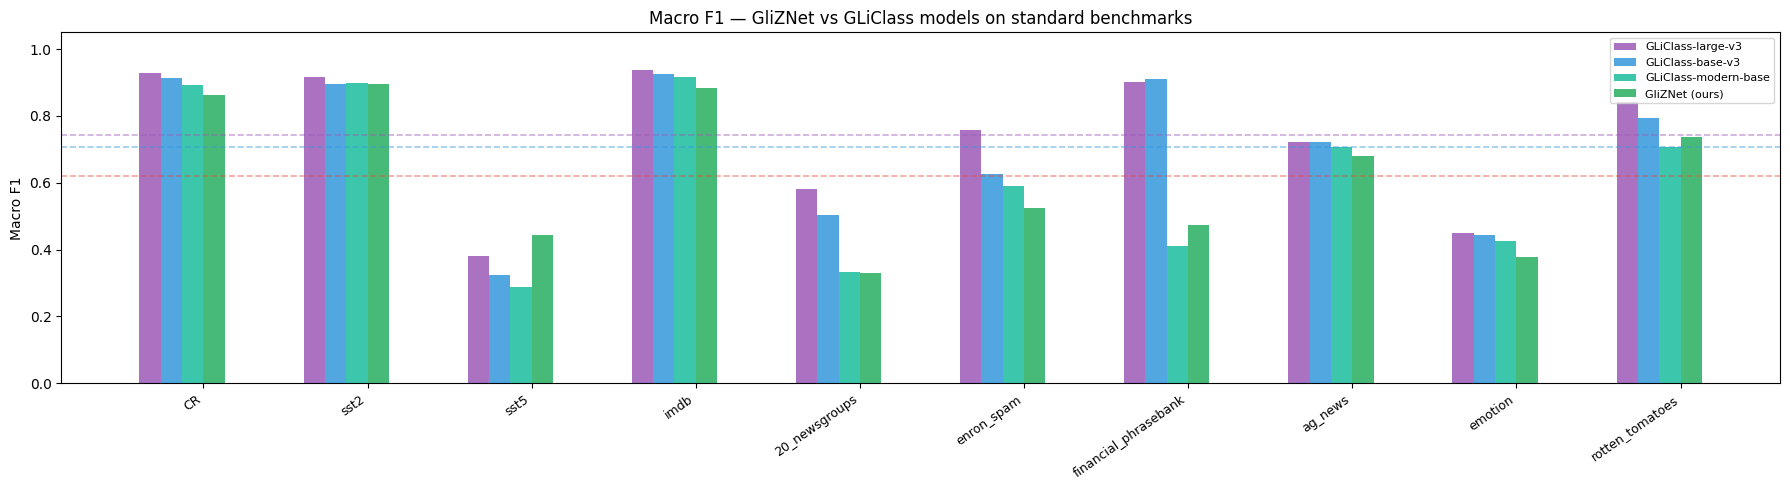
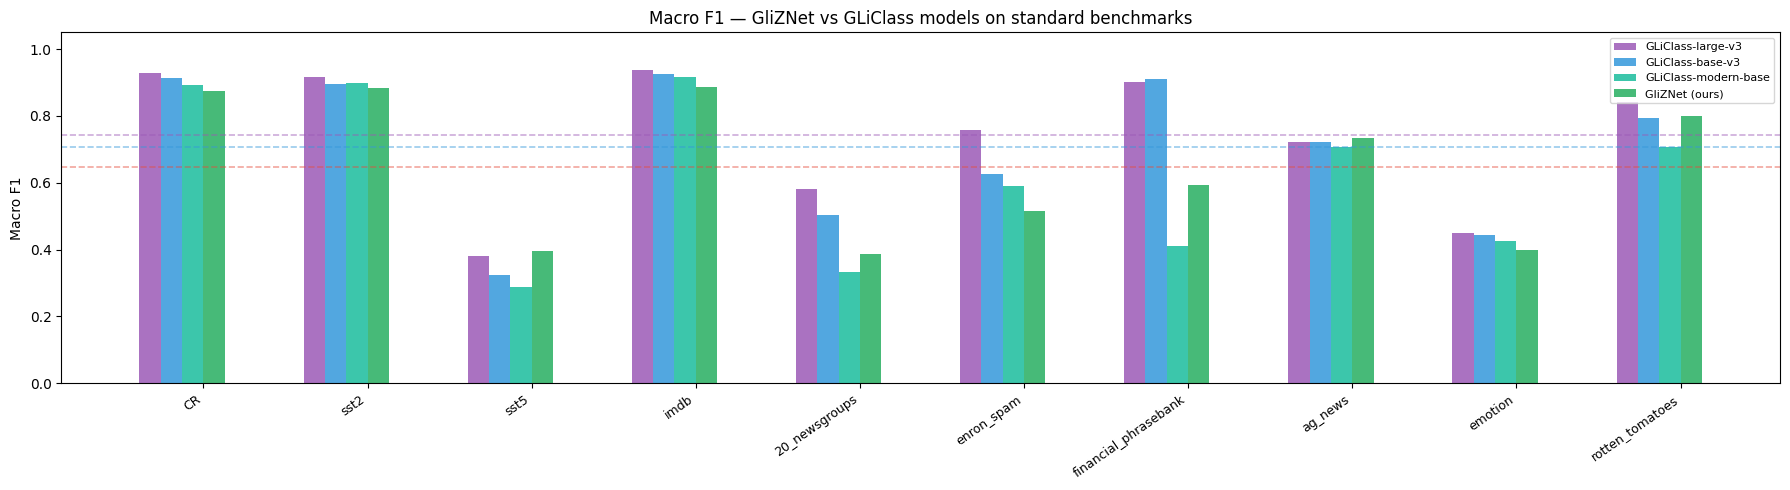
feat: Update GliZNet model card and training scripts
- Enhanced model card with detailed description of the hybrid loss function, including the use of a partial VICReg regularizer.
- Updated performance metrics in the model card to reflect improved results across various datasets.
- Added warnings filter in training script to suppress specific warnings during execution.
- Commented out options for maximum extended dataset size and additional datasets in the training shell script for clarity.
- Disabled torch compilation in the training shell script to prevent potential issues during training.

diff --git a/train_gliznet.py b/train_gliznet.py
@@ -1,11 +1,15 @@
 #!/usr/bin/env python3
 
 import os
+import warnings
 
 os.environ["WANDB_PROJECT"] = "gliznet"
 os.environ["WANDB_WATCH"] = "none"
 # os.environ["CUDA_DEVICE_ORDER"] = "PCI_BUS_ID"
 # os.environ["CUDA_VISIBLE_DEVICES"] = "1"
+
+warnings.filterwarnings("ignore", message=".*torch._prims_common.check.*")
+
 import random
 
 import datasets

diff --git a/reports/model_card.md b/reports/model_card.md
@@ -23,7 +23,7 @@ pipeline_tag: zero-shot-classification
 
 **GliZNet** (Generalized Zero-Shot Network) is a zero-shot text classification model that processes the input text and **all candidate labels jointly in a single forward pass**, achieving O(1) inference complexity regardless of the number of labels.
 
-Built on top of [microsoft/deberta-v3-base](https://huggingface.co/microsoft/deberta-v3-base), GliZNet encodes text and labels together in one sequence, extracts each label's representation from its `[LAB]` separator token, builds a label-specific text summary via cross-attention, and scores each pair with a bilinear head. A hybrid loss combining one-vs-negatives softmax (primary, with optional additive margin), auxiliary BCE, and optional label repulsion sharpens discrimination between semantically similar labels.
+Built on top of [microsoft/deberta-v3-base](https://huggingface.co/microsoft/deberta-v3-base), GliZNet encodes text and labels together in one sequence, extracts each label's representation from its `[LAB]` separator token, builds a label-specific text summary via cross-attention, and scores each pair with a bilinear head. A hybrid loss combining one-vs-negatives softmax (primary, with optional additive margin), auxiliary BCE, and a partial VICReg regularizer (variance + covariance terms only — the invariance term is dropped, leaving a pure label-repulsion objective) sharpens discrimination between semantically similar labels.
 
 > **Paper**: *GliZNet: A Novel Architecture for Zero-Shot Text Classification*  
 > Alex Kameni (Ivalua / Massy, France)
@@ -111,19 +111,19 @@ GLiClass variants are the closest published competitors; all encode text and lab
 
 | Dataset | GliZNet (ours) | GLiClass-large-v3 | GLiClass-base-v3 | GLiClass-modern-large | GLiClass-modern-base | GLiClass-edge |
 |---|---|---|---|---|---|---|
-| CR | 0.8148 | 0.9398 | 0.9127 | 0.8952 | 0.8902 | 0.8215 |
-| SST-2 | 0.8566 | 0.9192 | 0.8959 | 0.9330 | 0.8959 | 0.8199 |
-| SST-5 | 0.2737 | 0.4606 | 0.3376 | 0.4619 | 0.2756 | 0.2823 |
-| IMDb | 0.8807 | 0.9366 | 0.9251 | 0.9402 | 0.9158 | 0.8485 |
-| 20-Newsgroups | 0.3269 | 0.5958 | 0.4759 | 0.3905 | 0.3433 | 0.2217 |
-| Enron Spam | 0.5995 | 0.7584 | 0.6760 | 0.5813 | 0.6398 | 0.5623 |
-| Financial PhraseBank | 0.4370 | 0.9000 | 0.8971 | 0.5929 | 0.4200 | 0.5004 |
-| AG News | 0.6849 | 0.7181 | 0.7279 | 0.7269 | 0.6663 | 0.6645 |
-| Emotion | 0.3990 | 0.4506 | 0.4447 | 0.4517 | 0.4254 | 0.3851 |
-| Rotten Tomatoes | 0.7917 | 0.8411 | 0.7943 | 0.7664 | 0.7070 | 0.7024 |
-| **AVERAGE** | **0.6065** | **0.7520** | **0.7087** | **0.6740** | **0.6179** | **0.5809** |
+| CR | 0.8752 | 0.9398 | 0.9127 | 0.8952 | 0.8902 | 0.8215 |
+| SST-2 | 0.8839 | 0.9192 | 0.8959 | 0.9330 | 0.8959 | 0.8199 |
+| SST-5 | 0.3969 | 0.4606 | 0.3376 | 0.4619 | 0.2756 | 0.2823 |
+| IMDb | 0.8855 | 0.9366 | 0.9251 | 0.9402 | 0.9158 | 0.8485 |
+| 20-Newsgroups | 0.3877 | 0.5958 | 0.4759 | 0.3905 | 0.3433 | 0.2217 |
+| Enron Spam | 0.5164 | 0.7584 | 0.6760 | 0.5813 | 0.6398 | 0.5623 |
+| Financial PhraseBank | 0.5945 | 0.9000 | 0.8971 | 0.5929 | 0.4200 | 0.5004 |
+| AG News | 0.7332 | 0.7181 | 0.7279 | 0.7269 | 0.6663 | 0.6645 |
+| Emotion | 0.3991 | 0.4506 | 0.4447 | 0.4517 | 0.4254 | 0.3851 |
+| Rotten Tomatoes | 0.8009 | 0.8411 | 0.7943 | 0.7664 | 0.7070 | 0.7024 |
+| **AVERAGE** | **0.6473** | **0.7520** | **0.7087** | **0.6740** | **0.6179** | **0.5809** |
 
-**Δ GliZNet vs GLiClass-large**: −0.1455 · **Δ vs GLiClass-base**: −0.1022 · **Δ vs GLiClass-modern-large**: −0.0675 · **Δ vs GLiClass-edge**: +0.0256
+**Δ GliZNet vs GLiClass-large**: −0.1047 · **Δ vs GLiClass-base**: −0.0614 · **Δ vs GLiClass-modern-large**: −0.0267 · **Δ vs GLiClass-modern-base**: +0.0294 · **Δ vs GLiClass-edge**: +0.0664
 
 *GliZNet is a DeBERTa-v3-**base** model trained on synthetic data only; GLiClass-large uses a significantly bigger backbone.*
 
@@ -143,7 +143,7 @@ GLiClass variants are the closest published competitors; all encode text and lab
 | Precision | bf16 |
 | Distributed training | DeepSpeed ZeRO-2 via `accelerate launch` |
 | Hardware | 2 × NVIDIA GPU |
-| Loss | One-vs-negatives softmax (weight 0.5, margin 0.5) + auxiliary BCE (weight 0.5) + label repulsion (weight 0.05) |
+| Loss | One-vs-negatives softmax (weight 0.5, margin 0.5) + auxiliary BCE (weight 0.5) + partial VICReg label repulsion — variance & covariance only, no invariance term (weight 0.05) |
 | Max labels per sample | 20 |
 
 ---

diff --git a/README.md b/README.md
@@ -78,6 +78,21 @@ results = pipeline("I love this movie!", ["positive", "negative", "neutral"])
 [CLS] text tokens [SEP] label1 [LAB] label2 [LAB] label3 [SEP]
 ```
 
+## 📈 Performance
+
+Evaluated on the **GLiClass benchmark** — 10 standard text-classification datasets, reported as **macro F1**.
+
+| Model | Avg macro F1 |
+|---|---|
+| GLiClass-large-v3.0 | 0.7417 |
+| GLiClass-base-v3.0 | 0.7056 |
+| GLiClass-modern-base-v3.0 | 0.6170 |
+| **GliZNet-deberta-v3-base — bilinear, VICReg + custom data (ours)** | **0.6473** |
+| GliZNet-deberta-v3-base — bilinear, full data (ours) | 0.6301 |
+| GliZNet-deberta-v3-base — cosine, full data (ours) | 0.6214 |
+
+GliZNet-base outperforms GLiClass-modern-base (+0.0303) and is within **0.06 macro F1 of GLiClass-base** while using the same backbone size. See [`reports/model_card.md`](reports/model_card.md) for the full per-dataset breakdown.
+
 ## 🎯 Use Cases
 
 - **Sentiment Analysis**: Classify text as positive/negative/neutral
